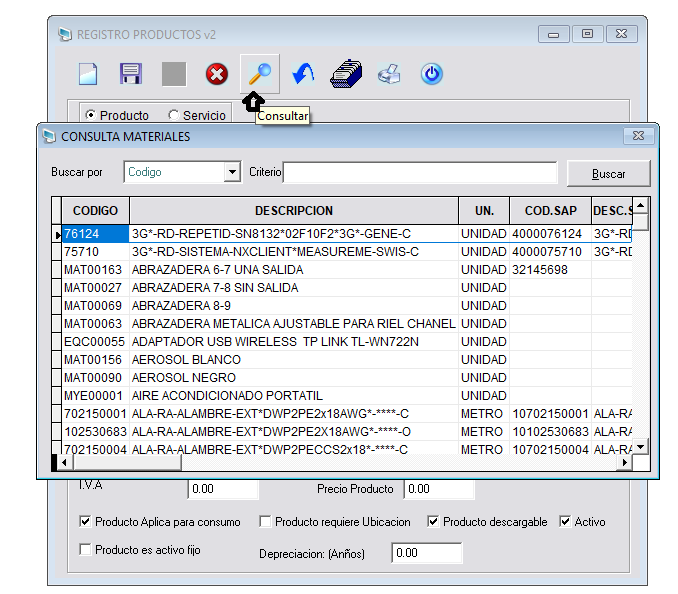
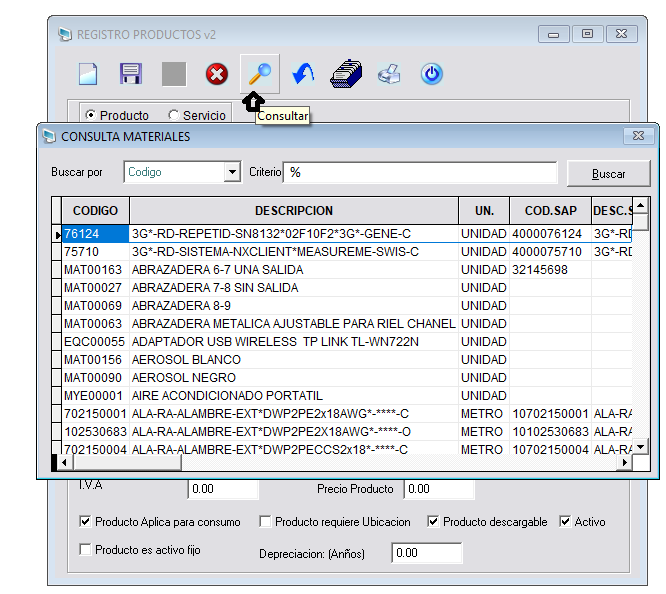
se actualiza vista mercancia

diff --git a/docs/inv_mercancia.html b/docs/inv_mercancia.html
@@ -404,7 +404,15 @@
                               <div class="alert alert-dismissible alert-info">
                                 <strong>
                                   <h5>
-                                                
+                                    Este se encuentra ubicado en la barra vertical superior
+                                    (lado izquierdo) permite guardar los registros nuevos.
+                                    Le damos clic en el botón
+                                    <div class="col-sm alert alert-dismissible alert-warning">
+                                        <img src="imagenes/botonguardar.png" style="width:7%;" class="w3-animate-zoom rounded">
+                                    Grabar
+                                    </div>
+                                    para que se aplique el
+                                    nuevo registro al sistema SISCOS.                                               
                                  </h5>
                                 </strong> 
                               </div>
@@ -413,7 +421,7 @@
                           </div><!--fin mensaje-->
                           <div class="w3-container w3-center">
                               <span>
-                              <img src="imagenes/Agregar mercancia.png" style="width:70%;" class="w3-animate-zoom rounded">
+                              <img src="imagenes/agregarmaterial.png" style="width:70%;" class="w3-animate-zoom rounded">
                             </span>
                         </div>
                         </div>
@@ -430,8 +438,18 @@
                                           <div class="alert alert-dismissible alert-info">
                                             <strong>
                                               <h5>
-                                                
-                                            </h5>
+                                                Se encuentra ubicado en la barra vertical superior
+                                                (lado izquierdo). Está permite hacer cambios en registros
+                                                existentes, para poder utilizar este botón debemos dar
+                                                clic sobre él y luego ingresar el código del material para
+                                                que nos arroje toda la información acerca de ese código y
+                                                que campo se desea modificar.<br>
+                                                <div class="col-sm alert alert-dismissible alert-warning">
+                                                Clic en el botón 
+                                                <img src="imagenes/botonmaterial.png" style="width:5%;" class="w3-animate-zoom rounded">
+                                                Modificar.
+                                                </div>
+                                              </h5>
                                             </strong> 
                                           </div>
                                         </div>
@@ -439,9 +457,29 @@
                                       </div><!--fin mensaje-->
                                       <div class="w3-container w3-center">
                                         <span>
-                                        <img src="imagenes/modificar mercancia.png" style="width:70%;" class="w3-animate-zoom rounded">
+                                        <img src="imagenes/modificarmaterial.png" style="width:70%;" class="w3-animate-zoom rounded">
                                         </span>
-                                      </div>
+                                      </div><br>
+                                      <div class="alert alert-dismissible alert-info">
+                                          <strong>
+                                            <h5>
+                                              Seguidamente le damos 
+                                              <div class="col-sm alert alert-dismissible alert-warning">
+                                                clic en el botón
+                                                <img src="imagenes/botonguardar.png" style="width:7%;" class="w3-animate-zoom rounded">
+                                                Guardar
+                                                </div>
+                                                para que guarde los nuevos cambios a el
+                                                material seleccionado.<br><br>
+                                                para finalizar los cambios aplicados
+                                                correctamente.
+                                              <div class="col-sm alert alert-dismissible alert-warning">
+                                                Damos clic en Aceptar
+                                                <img src="imagenes/mensajeaceptar.png" style="width:35%;" class="w3-animate-zoom rounded">
+                                              </div>
+                                            </h5>
+                                          </strong> 
+                                        </div>
                                   </div>
                               </div><!--fin modificar mercancia-->
           <!--eliminar mercancia-->
@@ -453,14 +491,24 @@
                 <div class="col-lg-8"  style="margin-top:-34px">
                   <div class="bs-component">
                     <div class="alert alert-dismissible alert-danger">
-                      <strong>Nota:</strong> 
-                      
+                      <strong>
+                        <h5>
+                      Nota:<br> 
+                      En el sistema de información SISCOS  no se puede
+                      <div class="col-sm alert alert-dismissible alert-warning">
+                      Eliminar
+                      <img src="imagenes/botoneliminar.png" style="width:9%;" class="w3-animate-zoom rounded">
+                      </div>
+                      material debido a que el Material va asociado
+                      con un Tipo de Material, Clasificación, Marca y Modelo.
+                      </h5>
+                    </strong>
                       </div>
                       </div>
                       </div><!--fin mensaje de alerta-->
                     <div class="w3-container w3-center">
                     <span>
-                      <img src="imagenes/eliminar mercancia.png" style="width:70%;" class="w3-animate-zoom rounded">
+                      <img src="imagenes/eliminarmaterial.png" style="width:70%;" class="w3-animate-zoom rounded">
                     </span>
                   </div>
                 <br><br>
@@ -471,7 +519,14 @@
                               <div class="alert alert-dismissible alert-info">
                                 <strong>
                                   <h5>
-                                    
+                                    El material presenta movimientos y está Activo  existen
+                                    registros por lo tanto no se puede eliminar porque si se
+                                    quiere hacer nos saldría un mensaje de error como se mostrará
+                                    a continuación.
+                                    <div class="alert alert-dismissible alert-warning">
+                                        No se elimina el material, la otra opción es que el
+                                        usuario le quite el chulito y este ya  inactivo. 
+                                      </div>
                                   </h5>
                                 </strong> 
                               </div>
@@ -492,7 +547,18 @@
                                 <div class="alert alert-dismissible alert-info">
                                   <strong>
                                     <h5>
-                                      
+                                      Se encuentra ubicado en la barra vertical superior.
+                                      Éste permite al usuario realizar una búsqueda por los
+                                      parámetros de Código, Descripción, Cod.SAP, Descripción.
+                                      SAP  y Tipo Material.
+                                      <div class="col-sm alert alert-dismissible alert-warning">
+                                          Le damos clic en el botón Buscar
+                                          <img src="imagenes/consultarmaterial.png" style="width:7%;" class="w3-animate-zoom rounded">
+                                          y nos mostrará una
+                                          ventana donde nos solicita escoger porque parámetro de
+                                          búsqueda deseas buscar y el criterio, en criterio esta la
+                                          opción de ingresar para saber todos los materiales es con ( % ).
+                                        </div>
                                     </h5>
                                   </strong> 
                                 </div>
@@ -504,7 +570,20 @@
                               <img src="imagenes/buscar mercancia.png" style="width:70%;" class="w3-animate-zoom rounded">
                               </span>
                             </div>
-                        </div>
+                            <div class="alert alert-dismissible alert-info">
+                                <strong>
+                                  <h5>
+                                    Existen otras opciones de búsqueda como:
+                                    <div class="col-sm alert alert-dismissible alert-warning">
+                                    <li>%  (todos los registros existentes).</li>
+                                    <li>%Cable%  (Busca todos los que se llamen cable).</li>
+                                    <li>Cable%  (Busca los que empiezan con cable).</li>
+                                    </div>
+                                    Para salir de la consulta de materiales con la tecla Esc.
+                                  </h5>
+                                </strong> 
+                              </div>
+                       </div>
                     </div><!--fin buscar mercancia-->
                 <!--documentos mercancia-->
           <div id="documentos" class="col-md-12">
@@ -518,7 +597,18 @@
                               <div class="alert alert-dismissible alert-info">
                                 <strong>
                                   <h5>
-                                    
+                                    Se encuentra ubicado en la barra vertical
+                                    superior. Está función permite al usuario
+                                    poder agregar Herramientas Documentos, Imágenes
+                                    para que se le haga a el usuario más fácil tener 
+                                    información en tiempo real dentro de esa ventana
+                                    de archivos
+                                    <div class="col-sm alert alert-dismissible alert-warning">
+                                      Documentos
+                                        <img src="imagenes/botondocumentos.png" style="width:7%;" class="w3-animate-zoom rounded">
+                                    </div>
+                                    se encuentran las funciones como Eliminar,
+                                    Abrir y Cancelar el archivo. 
                                   </h5>
                                 </strong> 
                               </div>
@@ -544,7 +634,16 @@
                               <div class="alert alert-dismissible alert-info">
                                 <strong>
                                   <h5>
-                                    
+                                    Se encuentra ubicado en la barra horizontal superior,
+                                    esta función permite al usuario poder generar un archivo
+                                    en Excel de todos los materiales registrados en el sistema
+                                    de información SISCOS.<br>
+                                    Le damos clic en el botón
+                                    <div class="col-sm alert alert-dismissible alert-warning">
+                                        Exportar
+                                        <img src="imagenes/botonexportar.png" style="width:7%;" class="w3-animate-zoom rounded">
+                                    </div>
+                                    Listados de Materiales.                                      
                                   </h5>
                                 </strong> 
                               </div>
@@ -553,7 +652,7 @@
                           </div><!--fin mensaje-->
                           <div class="w3-container w3-center">
                             <span>
-                            <img src="imagenes/exportar listado.png" style="width:70%;" class="w3-animate-zoom rounded">
+                            <img src="imagenes/exportar listado.png" style="width:80%;" class="w3-animate-zoom rounded">
                             </span>
                           </div>
                       </div>
@@ -570,7 +669,15 @@
                               <div class="alert alert-dismissible alert-info">
                                 <strong>
                                   <h5>
-                                    
+                                    Se encuentra ubicado en la barra vertical superior,
+                                    está permite
+                                    <div class="col-sm alert alert-dismissible alert-warning">
+                                    Salir
+                                    <img src="imagenes/botonsalir.png" style="width:7%;" class="w3-animate-zoom rounded">
+                                      </div>
+                                    del Módulo Registro Producto.<br><br>
+                                    Le damos clic en <button type="button" class="btn btn-outline-info btn-lg">Si</button> , para poder salir del Módulo y
+                                    finalizar el proceso.
                                   </h5>
                                 </strong> 
                               </div>

diff --git a/docs/inv_traslado_entre_personal.html b/docs/inv_traslado_entre_personal.html
@@ -345,14 +345,18 @@
     </aside>
 
              <!--container fluid-->
-          <div id="agregar" class="container-fluid">
+          <div id="buscar1" class="container-fluid">
             <!--row flex-->
               <div class="row flex-lg-nowrap">
                   <!--menu derecho-->
                   <div class="d-none d-lg-block col-sm-2 bd-toc">
                       <ul class="navbar-nav">
                         <li class="breadcrumb-item active"><h2>Funcionalidades</h2></li>&nbsp;
-                        <li class="treeview"><a class="nav-link app-menu__item active" href="#agregar" onclick="myFunction()">
+                        <li class="treeview"><a class="nav-link app-menu__item active" href="#buscar1" onclick="myFunction()">
+                            Buscar origen</a></li>&nbsp;
+                        <li class="treeview"><a class="nav-link app-menu__item" href="#buscar2" onclick="myFunction()">
+                            Buscar destino</a></li>&nbsp;
+                        <li class="treeview"><a class="nav-link app-menu__item" href="#agregar" onclick="myFunction()">
                             Agregar material</a></li>&nbsp;
                         <li class="treeview"><a class="nav-link app-menu__item" href="#eliminar" onclick="myFunction()">
                             Eliminar material</a></li>&nbsp;
@@ -387,6 +391,60 @@
 
   <!--comienzo-->
   <div class="col-md-12">
+    <div class="container-fluid bg-trans tile" style="padding-top:80px;margin-top: 40px">
+              <h3 class="tile-title">Buscar origen</h3>
+              <br><br>
+              <!--mensaje de alerta-->
+              <div class="row">
+                  <div class="col-lg-12" style="margin-top:-34px">
+                    <div class="bs-component">
+                      <div class="alert alert-dismissible alert-info">
+                        <strong>
+                        <h5>
+                       texto
+                        </h5>
+                        </strong> 
+                      </div>
+                    </div>
+                  </div>
+                  </div><!--fin mensaje-->
+                  <div class="w3-container w3-center">
+                    <span>
+                    <img src="imagenes/ " style="width:80%;" class="w3-animate-zoom rounded">
+                    </span>
+                  </div>
+              </div>
+          </div><!--fin-->
+
+          <!--comienzo-->
+  <div id="buscar2" class="col-md-12">
+    <div class="container-fluid bg-trans tile" style="padding-top:80px;margin-top: 40px">
+              <h3 class="tile-title">Buscar destino</h3>
+              <br><br>
+              <!--mensaje de alerta-->
+              <div class="row">
+                  <div class="col-lg-12" style="margin-top:-34px">
+                    <div class="bs-component">
+                      <div class="alert alert-dismissible alert-info">
+                        <strong>
+                        <h5>
+                       texto
+                        </h5>
+                        </strong> 
+                      </div>
+                    </div>
+                  </div>
+                  </div><!--fin mensaje-->
+                  <div class="w3-container w3-center">
+                    <span>
+                    <img src="imagenes/ " style="width:80%;" class="w3-animate-zoom rounded">
+                    </span>
+                  </div>
+              </div>
+          </div><!--fin-->
+
+  <!--comienzo-->
+  <div id="agregar" class="col-md-12">
       <div class="container-fluid bg-trans tile" style="padding-top:80px;margin-top: 40px">
                 <h3 class="tile-title">Agregar material</h3>
                 <br><br>
@@ -518,7 +576,7 @@
                                   </div>
                               </div><!--fin-->
                             <div id="video" class="embed-responsive embed-responsive-16by9 rounded">
-                              <iframe class="embed-responsive-item"  
+                              <iframe class="embed-responsive-item" width="866" height="426" src="https://www.youtube.com/embed/5xal581o7XE"
                                 frameborder="0" allow="accelerometer; autoplay; encrypted-media; gyroscope; picture-in-picture"
                                 allowfullscreen>
                               </iframe>

diff --git a/docs/inv_traslado_bodega_ct.html b/docs/inv_traslado_bodega_ct.html
@@ -157,7 +157,7 @@
        <div class="dropdown-divider"></div>
       </ul>
  </li>
-<li class="treeviewis-expanded"><a class="app-menu__item active" href="#" data-toggle="treeview"><i class="icon fa fa-folder-open"></i><span class="app-menu__label">&nbsp; Traslados</span><i class="treeview-indicator fa fa-caret-right"></i></a>
+<li class="treeview is-expanded"><a class="app-menu__item active" href="#" data-toggle="treeview"><i class="icon fa fa-folder-open"></i><span class="app-menu__label">&nbsp; Traslados</span><i class="treeview-indicator fa fa-caret-right"></i></a>
      <ul class="treeview-menu">
            <li><a class="app-menu__item" href="inv_traslado_entre_personal.html" data-toggle="tooltip" data-placement="right" title="Inventario / Traslados / Traslado entre personal"><i class="icon fa fa-chevron-circle-right"></i>&nbsp; Traslado Entre Personal</a></li>
            <li><a class="app-menu__item active" href="inv_traslado_bodega_ct.html" data-toggle="tooltip" data-placement="right" title="Inventario / Traslados / Traslado bodega CT"><i class="icon fa fa-chevron-circle-right"></i>&nbsp; Traslado Bodega CT</a></li>
@@ -342,7 +342,7 @@
      </ul>
      </li><!--fin menu admon-->
     </ul>
-    </aside>
+  </aside>
 
              <!--container fluid-->
           <div id=" " class="container-fluid">

diff --git a/docs/inv_modelos.html b/docs/inv_modelos.html
@@ -401,10 +401,10 @@
                                   <h5>
                                     Está ubicado en la barra
                                     vertical superior lado izquierdo,
-                                    damos clic en el boton 
-                                    <div class="btn btn-info">
-                                      <i class="icon fa fa-floppy-o fa-lg"></i>
-                                    Agregar
+                                    damos clic en el boton
+                                    <div class="col-sm alert alert-dismissible alert-warning">
+                                        Agregar
+                                      <img src="imagenes/botonguardar.png" style="width:7%;" class="w3-animate-zoom rounded">
                                     </div>
                                     que
                                     permite grabar los ingresos en el 

diff --git a/docs/per_personal.html b/docs/per_personal.html
@@ -647,7 +647,7 @@
                               </div><!--fin salir deptos-->
                     <!--video-->
                     <div id="video" class="embed-responsive embed-responsive-16by9 rounded">
-                        <iframe class="embed-responsive-item" width="1280" height="624" src="https://www.youtube.com/embed/DpnF4EkGA9A"
+                        <iframe class="embed-responsive-item" width="875" height="405" src="https://www.youtube.com/embed/YTHbGVy0g0k"
                         frameborder="0" allow="accelerometer; autoplay; encrypted-media; gyroscope; picture-in-picture" 
                         allowfullscreen>
                       </iframe>
